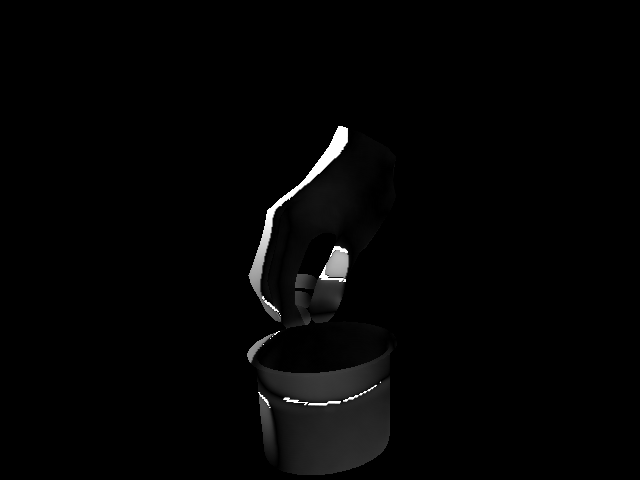
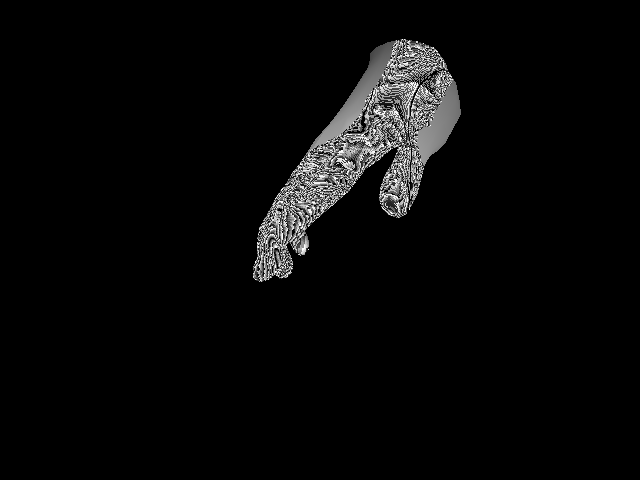
mesh/joint align error. backup

diff --git a/preprocess.py b/preprocess.py
@@ -282,18 +282,19 @@ class loadDataset():
 
         return kps
     
-    def segmentation(self, camID, idx, procImgSet, kps, gap):
+    def segmentation(self, camID, idx, procImgSet, kps, gap=None):
         if np.any(np.isnan(kps)):
             return
 
         rgb, depth = procImgSet
 
-        gap[gap < 15] = 0
-        gap[gap != 0] = 255
-        # cv2.imshow("gap", gap)
-        # cv2.waitKey(0)
-        imgName = str(camID) + '_' + format(idx, '04') + '.png'
-        cv2.imwrite(os.path.join(self.segBGDir, imgName), gap.astype('uint8'))
+        if gap != None:
+            gap[gap < 15] = 0
+            gap[gap != 0] = 255
+            # cv2.imshow("gap", gap)
+            # cv2.waitKey(0)
+            imgName = str(camID) + '_' + format(idx, '04') + '.png'
+            cv2.imwrite(os.path.join(self.segBGDir, imgName), gap.astype('uint8'))
 
         seg_image = np.uint8(rgb.copy())
         mask = np.ones(seg_image.shape[:2], np.uint8) * 2
@@ -337,6 +338,8 @@ def main(argv):
         - consider two-hand situation (currently assume single hand detection)
     '''
 
+    flag_undistort = False
+
     ### Preprocess ###
     if flag_preprocess:
         print("---------------start preprocess---------------")
@@ -351,25 +354,25 @@ def main(argv):
                 pbar = tqdm.tqdm(range(int(len(db) / 4)))
                 for idx in pbar:
                     rgb, depth = db.getItem(idx, camID=camID)
-                    bgRGB, bgDepth = db.getBGItem(camID)
-                    gap = abs(np.asarray(np.copy(depth), dtype=float) - np.asarray(bgDepth, dtype=float))
+                    # bgRGB, bgDepth = db.getBGItem(camID)
+                    # gap = abs(np.asarray(np.copy(depth), dtype=float) - np.asarray(bgDepth, dtype=float))
 
                     images = (rgb, depth)
-                    images = db.undistort(images, camID)
+                    if flag_undistort:
+                        images = db.undistort(images, camID)
                     bb, img2bb, bb2img, procImgSet, kps = db.procImg(images)
                     procKps = db.translateKpts(np.copy(kps), img2bb)
 
                     # get background and crop
-                    gapImages = (gap, gap)
-                    _, gap = db.undistort(gapImages, camID)
-
-                    # bgRGBCrop, _, _, _, _, = augmentation_real(bgRGB, bb, flip=False)
-                    gapCrop = gap[int(bb[1]):int(bb[1] + bb[3]), int(bb[0]):int(bb[0] + bb[2])]
-                    # bg = (bgRGBCrop, bgDepthCrop)
+                    # gapImages = (gap, gap)
+                    # if flag_undistort:
+                    #     _, gap = db.undistort(gapImages, camID)
+                    # gapCrop = gap[int(bb[1]):int(bb[1] + bb[3]), int(bb[0]):int(bb[0] + bb[2])]
 
                     db.postProcess(idx, procImgSet, bb, img2bb, bb2img, kps, procKps, camID=camID)
                     if flag_segmentation:
-                        db.segmentation(camID, idx, procImgSet, procKps, gapCrop)
+                        db.segmentation(camID, idx, procImgSet, procKps)
+                        # db.segmentation(camID, idx, procImgSet, procKps, gapCrop)
                     pbar.set_description("(%s in %s) : (cam %s, idx %s) in %s" % (seqIdx, lenDBTotal, camID, idx, seqName))
         print("---------------end preprocess---------------")
 

diff --git a/modules/meshModels.py b/modules/meshModels.py
@@ -22,19 +22,19 @@ class HandModel(nn.Module):
                                     center_idx=0, ncomps=45, root_rot_mode="axisang", joint_rot_mode="axisang").to(device)
 
         # initial pose parameters
-        self.xy_root = nn.Parameter(torch.tensor([0.6595, 1.0659], dtype=torch.float32).repeat(self.batch_size, 1).to(device))
-        self.z_root = nn.Parameter(torch.tensor([56], dtype=torch.float32).repeat(self.batch_size, 1).to(device))
+        self.xy_root = nn.Parameter(torch.tensor([-0.9094, 12.0501], dtype=torch.float32).repeat(self.batch_size, 1).to(device))
+        self.z_root = nn.Parameter(torch.tensor([65.0], dtype=torch.float32).repeat(self.batch_size, 1).to(device))
 
-        initial_pose = torch.tensor([[1.5464e-02, -1.5886e-02, -2.6480e-01, 1.7313e-03, -3.0119e-03,
-                 -4.3855e-01, 8.4188e-06, -1.5501e-04, 6.5009e+00, -2.0439e-02,
-                 4.3690e-02, -4.9303e-01, -1.1642e-03, 1.1375e-03, -2.8073e-01,
-                 4.0919e-05, 2.0615e-03, 6.1110e-02, -2.3347e-02, -7.9014e-02,
-                 -4.5420e-01, 8.7698e-02, -4.7082e-03, -4.4077e-01, 1.5274e-03,
-                 -2.9957e-03, 1.4533e-01, -2.2924e-02, -1.6601e-01, -3.8383e-01,
-                 1.3930e-03, -1.4208e-03, -5.2633e-01, 2.6763e-04, -2.0722e-03,
-                 2.8310e-01, -4.7774e-01, 6.2213e-03, 3.3319e-01, 3.3308e-02,
-                 -6.8497e-01, 4.3174e-02, 2.7197e-02, 8.1599e-01, -4.7765e-01]])
-        initial_rot = torch.tensor([[-1.3630, -1.8802, 1.8825]])
+        initial_pose = torch.tensor([[5.1057e-03, -4.8339e-01, 1.7344e-01, -5.7935e-05, 7.4130e-03,
+                 -3.8736e-01, -5.8735e-05, 1.7143e-04, 6.3895e+00, -1.1979e-02,
+                 -6.1291e-01, -1.4494e-01, 1.3029e-02, -9.6093e-03, 7.5279e-02,
+                 4.3783e-03, -1.0702e-02, 5.3488e-01, -3.3502e-02, -3.0971e-01,
+                 -2.8535e-01, 8.0780e-02, 1.7461e-03, -3.4025e-02, 2.4274e-04,
+                 1.0885e-03, 1.2122e+00, -1.8687e-02, -5.7216e-01, -3.2695e-01,
+                 1.1369e-02, -5.8926e-03, -1.0265e-01, 6.1043e-03, -7.2788e-03,
+                 1.3692e+00, -4.8982e-01, -6.3829e-01, 3.0540e-01, 2.6227e-02,
+                 -7.3978e-02, 2.6190e-02, 1.0506e-02, 2.9847e-01, -4.9171e-01]])
+        initial_rot = torch.tensor([[-1.4405, -1.8235, 2.5271]])
 
         self.input_rot = nn.Parameter(clip_mano_hand_rot(initial_rot.to(device)))
         self.input_pose = nn.Parameter(initial_pose.to(device))

diff --git a/modules/lossFunc.py b/modules/lossFunc.py
@@ -27,6 +27,7 @@ class MultiViewLossFunc(nn.Module):
         self.renderers = renderers
 
         self.loss_dict = losses
+        self.obj_scale = torch.FloatTensor([1.0, 1.0, 1.0]).to(self.device)
 
     def set_object_main_extrinsic(self, obj_main_cam_idx):
         cam_params = self.dataloaders[obj_main_cam_idx].cam_parameter
@@ -102,6 +103,12 @@ class MultiViewLossFunc(nn.Module):
             loss_reg = pose_reg + shape_reg
             loss['reg'] = loss_reg
 
+            if pred_obj is not None:
+                pred_obj_rot = pred_obj['pose'].view(3, 4)[:, :-1]
+                pred_obj_scale = torch.norm(pred_obj_rot, dim=0)
+                loss_reg_obj = torch.abs(pred_obj_scale - self.obj_scale) * 100000.0
+                loss['reg'] += torch.sum(loss_reg_obj)
+
         if render:
             pred_rendered = self.cam_renderer.render(verts_cam, pred['faces'])
 
@@ -163,7 +170,7 @@ class MultiViewLossFunc(nn.Module):
                 depth_gap[self.gt_seg == 0] = 0
                 # depth_gap[pred_depth == 0] = 0.
                 depth_gap[depth_gap > 100] = 100.
-                depth_gap /= 100.0
+                depth_gap /= 1000.0
 
                 # pred_depth_vis = np.squeeze((pred_depth[0].cpu().detach().numpy())).astype(np.uint8)
                 # gt_depth_vis = np.squeeze((self.gt_depth[0].cpu().detach().numpy())).astype(np.uint8)

diff --git a/main_multiViewSingleFrame.py b/main_multiViewSingleFrame.py
@@ -24,7 +24,7 @@ import time
 ## FLAGS
 FLAGS = flags.FLAGS
 flags.DEFINE_string('db', '230802', 'target db name')   ## name ,default, help
-flags.DEFINE_string('type', 'mug', 'target sequence name')
+flags.DEFINE_string('type', 'mustard', 'target sequence name')
 FLAGS(sys.argv)
 
 
@@ -96,9 +96,8 @@ def main(argv):
             params = list(params_hand) + list(params_obj)
             optimizer = torch.optim.Adam(params)
 
-        lr_scheduler = torch.optim.lr_scheduler.CosineAnnealingLR(optimizer, T_max=100, eta_min=0)
+        lr_scheduler = torch.optim.lr_scheduler.CosineAnnealingLR(optimizer, T_max=30, eta_min=0)
 
-        loss_list = []
         for iter in range(CFG_NUM_ITER):
             loss_all = {'kpts2d':0.0, 'depth':0.0, 'seg':0.0, 'reg':0.0, 'depth_obj':0.0}
             if CFG_WITH_OBJ:
@@ -136,7 +135,6 @@ def main(argv):
             logs = ["Iter: {}, Loss: {}".format(iter, total_loss.data)]
             logs += ['[%s:%.4f]' % (key, loss_all[key]/num_done) for key in loss_all.keys() if key in CFG_LOSS_DICT]
             logging.info(''.join(logs))
-            loss_list.append(loss_all)
 
         ## visualization results of frame
         for camIdx, camID in enumerate(CFG_CAMID_SET):

diff --git a/config.py b/config.py
@@ -3,15 +3,15 @@ import os
 ## Config
 CFG_DATA_DIR = os.path.join(os.getcwd(), 'dataset')
 
-CFG_LR_INIT = 0.05
-CFG_LR_INIT_OBJ = 0.002
+CFG_LR_INIT = 0.02
+CFG_LR_INIT_OBJ = 0.02
 
-CFG_NUM_ITER = 300
+CFG_NUM_ITER = 100
 CFG_DEVICE = 'cuda'
 CFG_BATCH_SIZE = 1
 CFG_MANO_PATH = os.path.join(os.getcwd(), 'modules', 'mano', 'models')
 
-CFG_LOSS_DICT = ['kpts2d', 'reg', 'depth', 'depth_obj'] #['kpts2d', 'reg', 'seg']
+CFG_LOSS_DICT = ['kpts2d', 'reg']#, 'depth', 'depth_obj'] #['kpts2d', 'reg', 'seg']
 CFG_SAVE_PATH = os.path.join(os.getcwd(), 'output')
 CFG_CAMID_SET = ['mas', 'sub1', 'sub2', 'sub3']
 
@@ -20,4 +20,4 @@ CFG_IMG_HEIGHT = 1080
 CFG_CROP_IMG_WIDTH = 640
 CFG_CROP_IMG_HEIGHT = 480
 
-CFG_WITH_OBJ = True
+CFG_WITH_OBJ = False

diff --git a/modules/dataloader.py b/modules/dataloader.py
@@ -131,6 +131,8 @@ class DataLoader:
             dist_coeff = LoadDistortionParam(os.path.join(self.cam_path, "%s_intrinsic.json" % self.cam))
         else:
             intrinsics, dist_coeffs, extrinsics = LoadCameraParams(os.path.join(self.cam_path, "cameraParams.json"))
+            intrinsics = LoadCameraMatrix_undistort(
+                os.path.join(self.cam_path, self.data_date + '_camIntrinsic_undistort.txt'))
 
             cam_intrinsic = intrinsics[self.cam]
             dist_coeff = dist_coeffs[self.cam]
